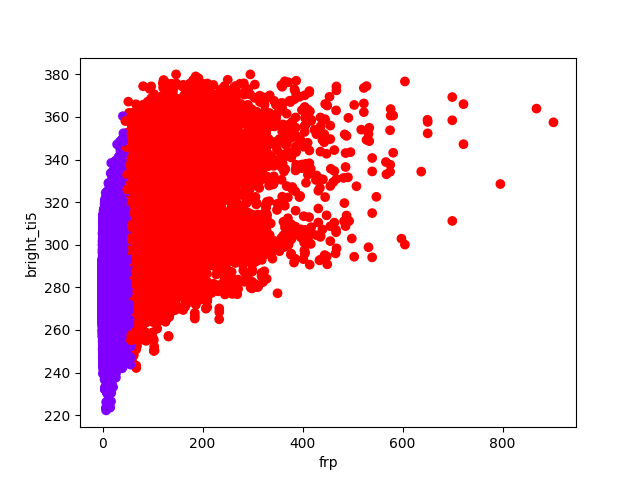
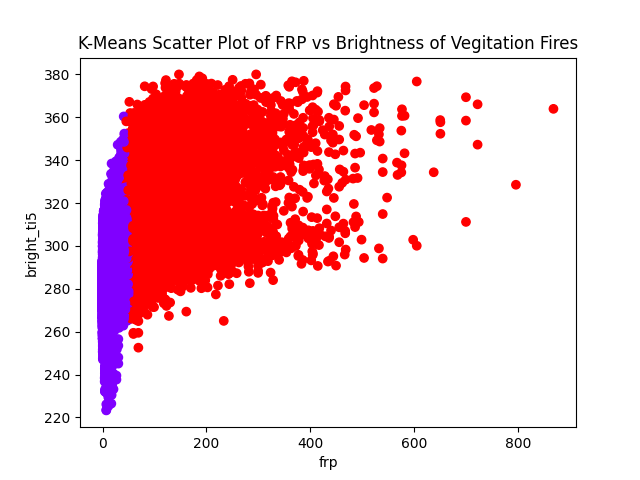
K-means added

diff --git a/k_means.py b/k_means.py
@@ -6,7 +6,8 @@ import matplotlib.pyplot as plt
 # Load your data into a pandas DataFrame
 unfiltered_df = pd.read_csv('DRC.csv')
 
-df = unfiltered_df[unfiltered_df['confidence'].str.contains('h|n', case=False, na=False, regex=True)].reset_index(drop=True)
+pre_df = unfiltered_df[unfiltered_df['confidence'].str.contains('h|n', case=False, na=False, regex=True)].reset_index(drop=True)
+df = pre_df[pre_df["type"] == 0]
 
 # Extract the "frp" and "bright_ti5" columns from the filtered DataFrame as separate DataFrames
 # frp = df[["frp"]].reset_index(drop=True)
@@ -22,13 +23,6 @@ for i in range(1, 11):
     kmeans.fit(features)
     wcss.append(kmeans.inertia_)
 
-# Plot the Elbow Method graph
-# plt.plot(range(1, 11), wcss)
-# plt.title('Elbow Method')
-# plt.xlabel('Number of clusters')
-# plt.ylabel('WCSS')  # Within-Cluster-Sum-of-Squares
-# plt.savefig("frp_bright_ti5_kmeans_elbow.png")
-
 # Choose the number of clusters (you can set it based on the elbow method)
 num_clusters = 2
 kmeans = KMeans(n_clusters=num_clusters, init='k-means++', max_iter=300, n_init=10, random_state=0)
@@ -41,5 +35,6 @@ df['cluster'] = kmeans.labels_
 plt.scatter(df['frp'], df['bright_ti5'], c=df['cluster'], cmap='rainbow')
 plt.xlabel('frp')
 plt.ylabel('bright_ti5')
+plt.title("K-Means Scatter Plot of FRP vs Brightness of Vegitation Fires")
 plt.show()
 plt.savefig("frp_bright_ti5_kmeans.png")

diff --git a/graphing_vars.py b/graphing_vars.py
@@ -5,16 +5,17 @@ import matplotlib.pyplot as plt
 csv_file = "DRC.csv"  # Replace with the actual path to your CSV file
 df = pd.read_csv(csv_file)
 
-filtered_df = df[df['confidence'].str.contains('h|n', case=False, na=False, regex=True)]
+pre_filtered_df = df[df['confidence'].str.contains('h|n', case=False, na=False, regex=True)].reset_index(drop=True)
+filtered_df = pre_filtered_df[pre_filtered_df['type'] == 0].reset_index(drop=True)
 
 # Extract the "frp" and "bright_ti5" columns from the filtered DataFrame as separate DataFrames
-frp = filtered_df[["frp"]].reset_index(drop=True)
-bright_ti5 = filtered_df[["bright_ti5"]].reset_index(drop=True)
+frp = filtered_df[["frp"]]
+track = filtered_df[["track"]]
 
 # Create a scatter plot to visualize the data
 plt.figure(figsize=(8, 6))  # Adjust the figure size as needed
-plt.scatter(frp, bright_ti5, s=20, alpha=0.5, c='blue', label="Data Points")
-plt.title("Scatter Plot of FRP vs Brightness")
+plt.scatter(frp, track, s=20, alpha=0.5, c='blue', label="Data Points")
+plt.title("Scatter Plot of FRP vs Brightness of Vegitation Fires")
 plt.xlabel("FRP")
 plt.ylabel("Brightness")
 plt.legend()
@@ -22,5 +23,5 @@ plt.grid(True)
 
 # Display the plot or save it to a file
 plt.show()  # To display the plot in a Jupyter Notebook or script
-plt.savefig("frp_vs_bright_ti5.png")
+plt.savefig("frp_vs_track.png")
 

diff --git a/README.md b/README.md
@@ -1,8 +1,8 @@
-# AWISSA FRP Experiments
+# AWISSA Experiments
 
 Goal: To find a two variables that exhibit clustering and use those clusters (by means of cluster analysis) to differentiate vegitation fires from wildfires.
 
-Note: All variables will filter out points marked by VIRRS as low confidence.
+Note: All data will filter out points marked by VIRRS data as low confidence under the "confidence" attribute.
 
 [VIRRS data attributes](https://www.earthdata.nasa.gov/learn/find-data/near-real-time/firms/vnp14imgtdlnrt#ed-viirs-375m-attributes)
 
@@ -11,5 +11,3 @@ Note: All variables will filter out points marked by VIRRS as low confidence.
 ![K-means clustering of frp against bright_ti5](frp_bright_ti5_kmeans.png)
 
 Doesn't seem to be a clear clustering comparing the variables frp (Fire Radiative Power) and bright_ti5.
-
-2. 
